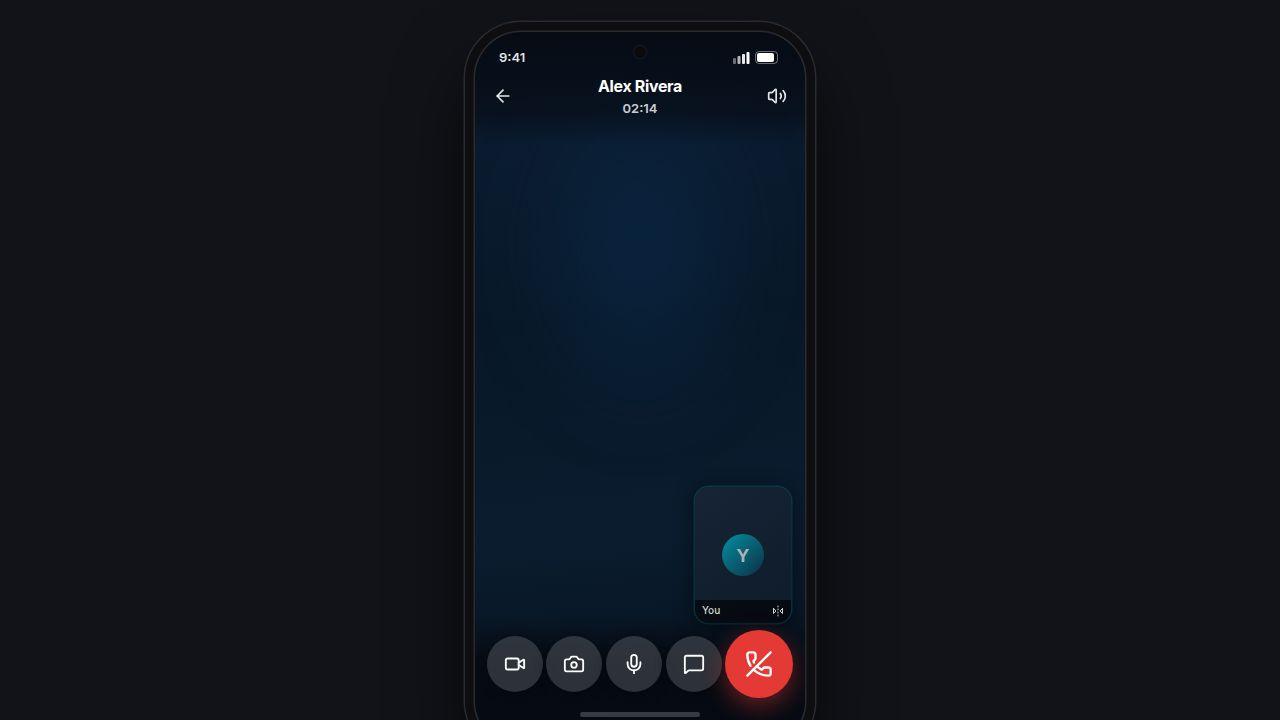
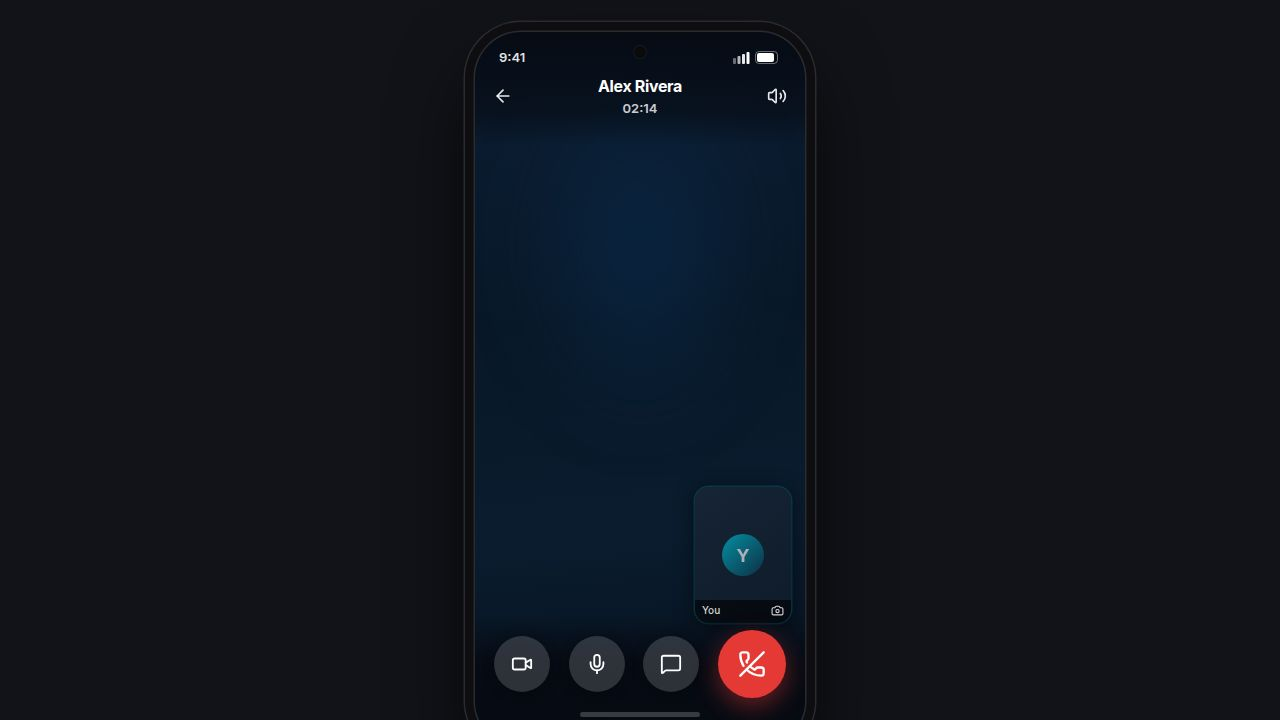
Update video components and screenshots for duoshield calls mockup
Replit-Commit-Author: Agent

Changed region(s): [[0.375, 0.825, 0.625, 0.9778]]

diff --git a/artifacts/mockup-sandbox/src/components/mockups/duoshield-calls/VideoCall.tsx b/artifacts/mockup-sandbox/src/components/mockups/duoshield-calls/VideoCall.tsx
@@ -1,4 +1,4 @@
-import { ArrowLeft, Volume2, Video, FlipHorizontal2, Camera, Mic, MessageSquare, PhoneOff } from "lucide-react";
+import { ArrowLeft, Volume2, Video, Camera, Mic, MessageSquare, PhoneOff } from "lucide-react";
 
 function PhoneFrame({ children }: { children: React.ReactNode }) {
   return (
@@ -130,7 +130,7 @@ export function VideoCall() {
             display: "flex", alignItems: "center", justifyContent: "space-between"
           }}>
             <span style={{ fontSize: "10px", color: "rgba(255,255,255,0.85)", fontWeight: 500 }}>You</span>
-            <FlipHorizontal2 size={12} color="rgba(255,255,255,0.8)" />
+            <Camera size={13} color="rgba(255,255,255,0.85)" />
           </div>
         </div>
 
@@ -145,7 +145,6 @@ export function VideoCall() {
             paddingLeft: "10px", paddingRight: "10px"
           }}>
             <IconBtn icon={<Video size={22} color="white" strokeWidth={2} />} />
-            <IconBtn icon={<Camera size={22} color="white" strokeWidth={2} />} />
             <IconBtn icon={<Mic size={22} color="white" strokeWidth={2} />} />
             <IconBtn icon={<MessageSquare size={22} color="white" strokeWidth={2} />} />
             <IconBtn

diff --git a/artifacts/mockup-sandbox/src/components/mockups/duoshield-calls/VideoBanner.tsx b/artifacts/mockup-sandbox/src/components/mockups/duoshield-calls/VideoBanner.tsx
@@ -1,4 +1,4 @@
-import { ArrowLeft, Volume2, Video, FlipHorizontal2, Camera, Mic, MessageSquare, PhoneOff, MessageCircle } from "lucide-react";
+import { ArrowLeft, Volume2, Video, Camera, Mic, MessageSquare, PhoneOff, MessageCircle } from "lucide-react";
 
 function PhoneFrame({ children }: { children: React.ReactNode }) {
   return (
@@ -149,7 +149,7 @@ export function VideoBanner() {
             display: "flex", alignItems: "center", justifyContent: "space-between"
           }}>
             <span style={{ fontSize: "10px", color: "rgba(255,255,255,0.85)", fontWeight: 500 }}>You</span>
-            <FlipHorizontal2 size={12} color="rgba(255,255,255,0.8)" />
+            <Camera size={13} color="rgba(255,255,255,0.85)" />
           </div>
         </div>
 
@@ -164,7 +164,6 @@ export function VideoBanner() {
             paddingLeft: "10px", paddingRight: "10px"
           }}>
             <IconBtn icon={<Video size={22} color="white" strokeWidth={2} />} />
-            <IconBtn icon={<Camera size={22} color="white" strokeWidth={2} />} />
             <IconBtn icon={<Mic size={22} color="white" strokeWidth={2} />} />
             {/* Chat button lit up in accent */}
             <IconBtn
